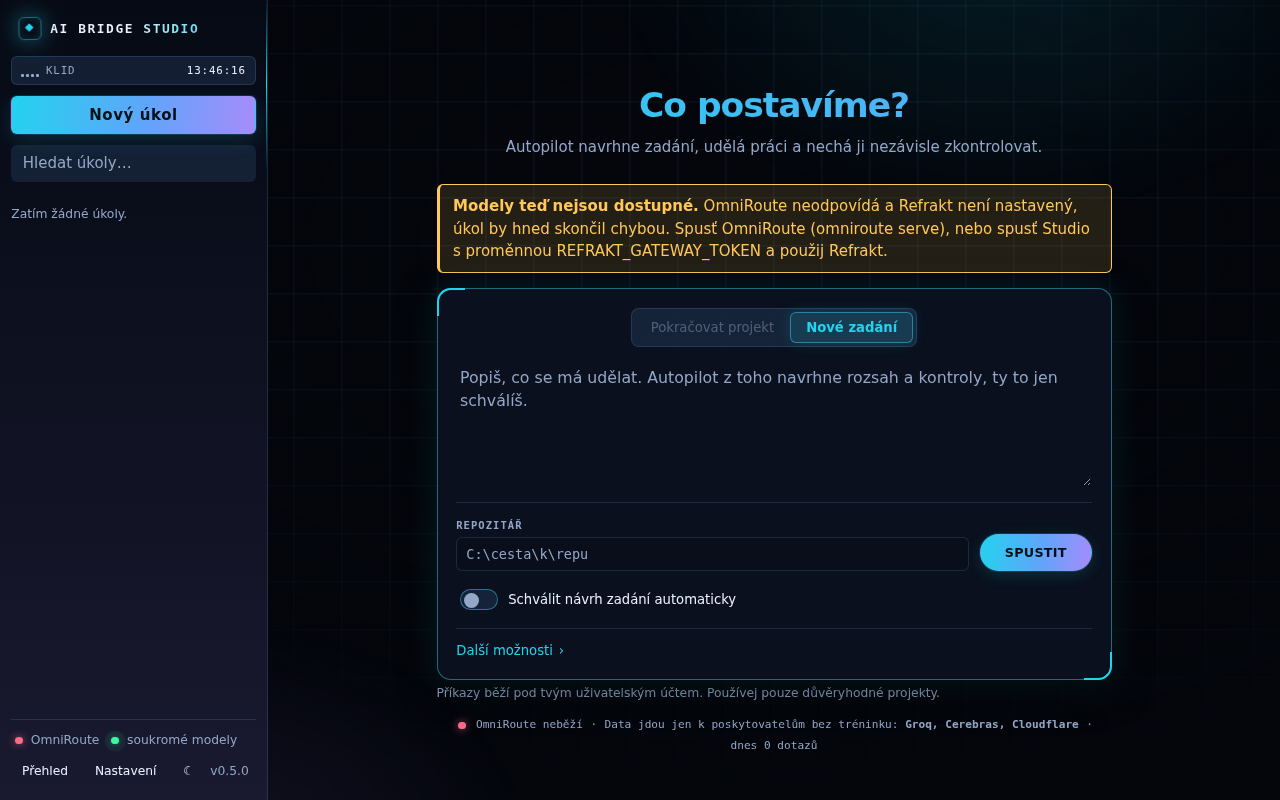
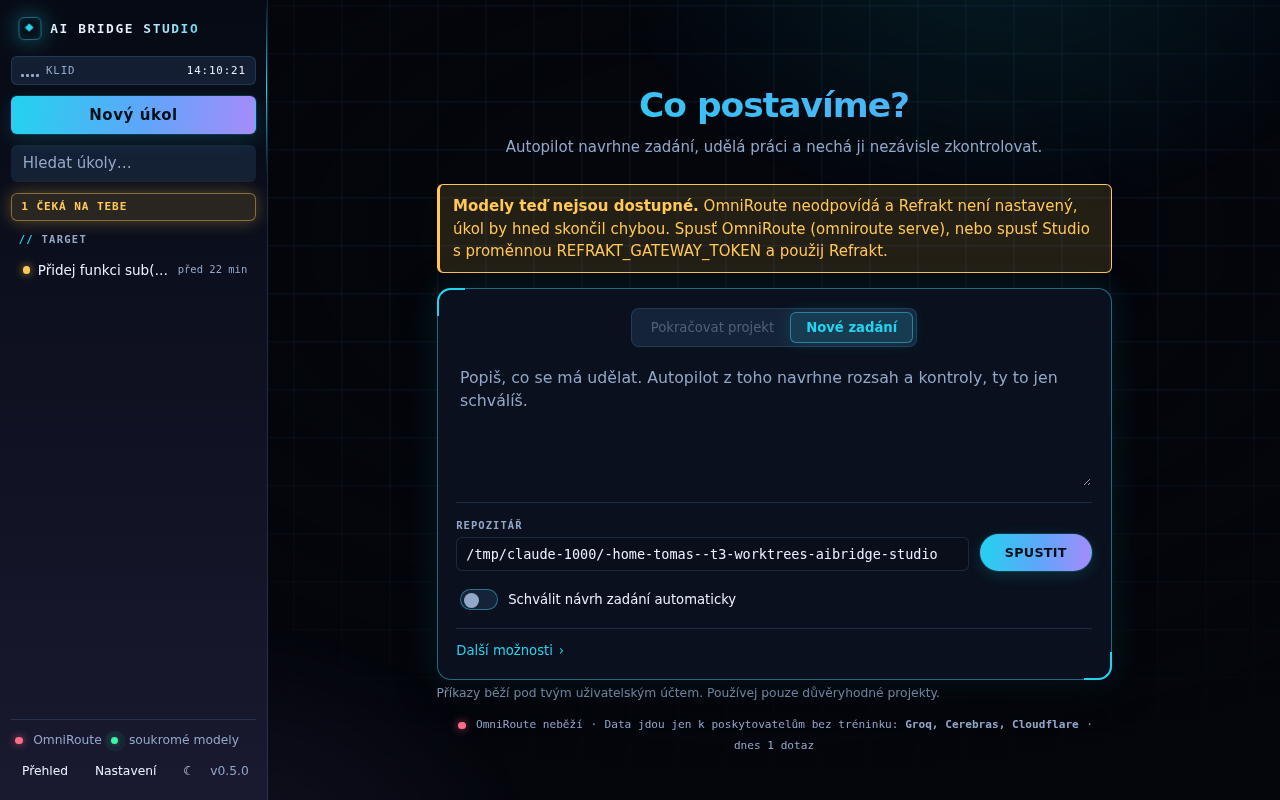
Address review: clearer Czech, announced notice, sidebar state for screen readers
- "neodpovídají", and the submit error points to the notice in plain words.
- The notice region stays mounted so screen readers announce it.
- No "(omniroute serve)" hint when the start button is shown.
- Sidebar dots are hidden from screen readers, which hear běží / neběží.

diff --git a/frontend/src/components/Composer.tsx b/frontend/src/components/Composer.tsx
@@ -259,7 +259,7 @@ export function Composer({ settings, health, onCreated, onSettingsSaved, onHealt
     try {
       // Health is polled every 20 s: ask again, so a gateway started a moment ago counts.
       if (gatewayProblem(await api.health().catch(() => health))) {
-        setError("Úkol nevznikl: modely nejsou dostupné. Co s tím, píše upozornění nahoře.");
+        setError("Úkol nevznikl: modely nejsou dostupné. Postup najdeš v upozornění nahoře.");
         onHealthChanged?.(); // shows the notice if the last poll had not caught it yet
         return;
       }
@@ -300,16 +300,19 @@ export function Composer({ settings, health, onCreated, onSettingsSaved, onHealt
     <div className="composer-page">
       <h1 className="composer-title">{start === "project" ? "Kde pokračujeme?" : "Co postavíme?"}</h1>
       <p className="composer-sub">Autopilot navrhne zadání, udělá práci a nechá ji nezávisle zkontrolovat.</p>
-      {noGateway && (
-        <div className="alert warn gateway-down" role="status">
-          <strong>Modely teď nejsou dostupné.</strong> {noGateway}
-          {health?.gateway.launchable && (
-            <div>
-              <StartGateway onDone={onHealthChanged} />
-            </div>
-          )}
-        </div>
-      )}
+      {/* Always mounted, so screen readers announce the notice when it appears. */}
+      <div role="status">
+        {noGateway && (
+          <div className="alert warn gateway-down">
+            <strong>Modely teď nejsou dostupné.</strong> {noGateway}
+            {health?.gateway.launchable && (
+              <div>
+                <StartGateway onDone={onHealthChanged} />
+              </div>
+            )}
+          </div>
+        )}
+      </div>
       {template && (
         <p className="alert info small">
           Podle úkolu „{template.title}“. Uprav, co je potřeba, a spusť.

diff --git a/frontend/src/components/Sidebar.tsx b/frontend/src/components/Sidebar.tsx
@@ -137,11 +137,13 @@ export function Sidebar(p: Props) {
               ) : (
                 <>
                   <span className="hitem">
-                    <span className={`hdot ${h?.gateway.reachable ? "ok" : "bad"}`} /> OmniRoute
+                    <span className={`hdot ${h?.gateway.reachable ? "ok" : "bad"}`} aria-hidden="true" /> OmniRoute
+                    <span className="sr-only">{h?.gateway.reachable ? " běží" : " neběží"}</span>
                   </span>
                   {h?.gateway.refrakt && (
                     <span className="hitem">
-                      <span className={`hdot ${h.gateway.refrakt.reachable ? "ok" : "bad"}`} /> Refrakt
+                      <span className={`hdot ${h.gateway.refrakt.reachable ? "ok" : "bad"}`} aria-hidden="true" /> Refrakt
+                      <span className="sr-only">{h.gateway.refrakt.reachable ? " běží" : " neběží"}</span>
                     </span>
                   )}
                 </>

diff --git a/frontend/src/options.ts b/frontend/src/options.ts
@@ -107,6 +107,8 @@ export function gatewayProblem(health: Health | null): string | null {
   const g = health.gateway;
   if (g.fake || g.reachable || g.refrakt?.reachable) return null;
   return g.refrakt
-    ? "OmniRoute ani Refrakt neodpovídá, úkol by hned skončil chybou. Spusť jeden z nich; stav se tu obnoví sám."
-    : "OmniRoute neodpovídá a Refrakt není nastavený, úkol by hned skončil chybou. Spusť OmniRoute (omniroute serve), nebo spusť Studio s proměnnou REFRAKT_GATEWAY_TOKEN a použij Refrakt.";
+    ? "OmniRoute ani Refrakt neodpovídají, úkol by hned skončil chybou. Spusť jeden z nich; stav se tu obnoví sám."
+    : `OmniRoute neodpovídá a Refrakt není nastavený, úkol by hned skončil chybou. Spusť OmniRoute${
+        g.launchable ? "" : " (omniroute serve)"
+      }, nebo spusť Studio s proměnnou REFRAKT_GATEWAY_TOKEN a použij Refrakt.`;
 }

diff --git a/frontend/src/studio.test.ts b/frontend/src/studio.test.ts
@@ -261,7 +261,7 @@ group("gateway", () => {
   it("says what to start when nothing answers", () => {
     expect(gatewayProblem(gw({}))).toMatch(/OmniRoute.*REFRAKT_GATEWAY_TOKEN/);
     const both = gatewayProblem(gw({ refrakt: { reachable: false } }));
-    expect(both).toMatch(/OmniRoute ani Refrakt/);
+    expect(both).toMatch(/OmniRoute ani Refrakt neodpovídají/);
     expect(both).not.toMatch(/REFRAKT_GATEWAY_TOKEN/);
   });
 });
